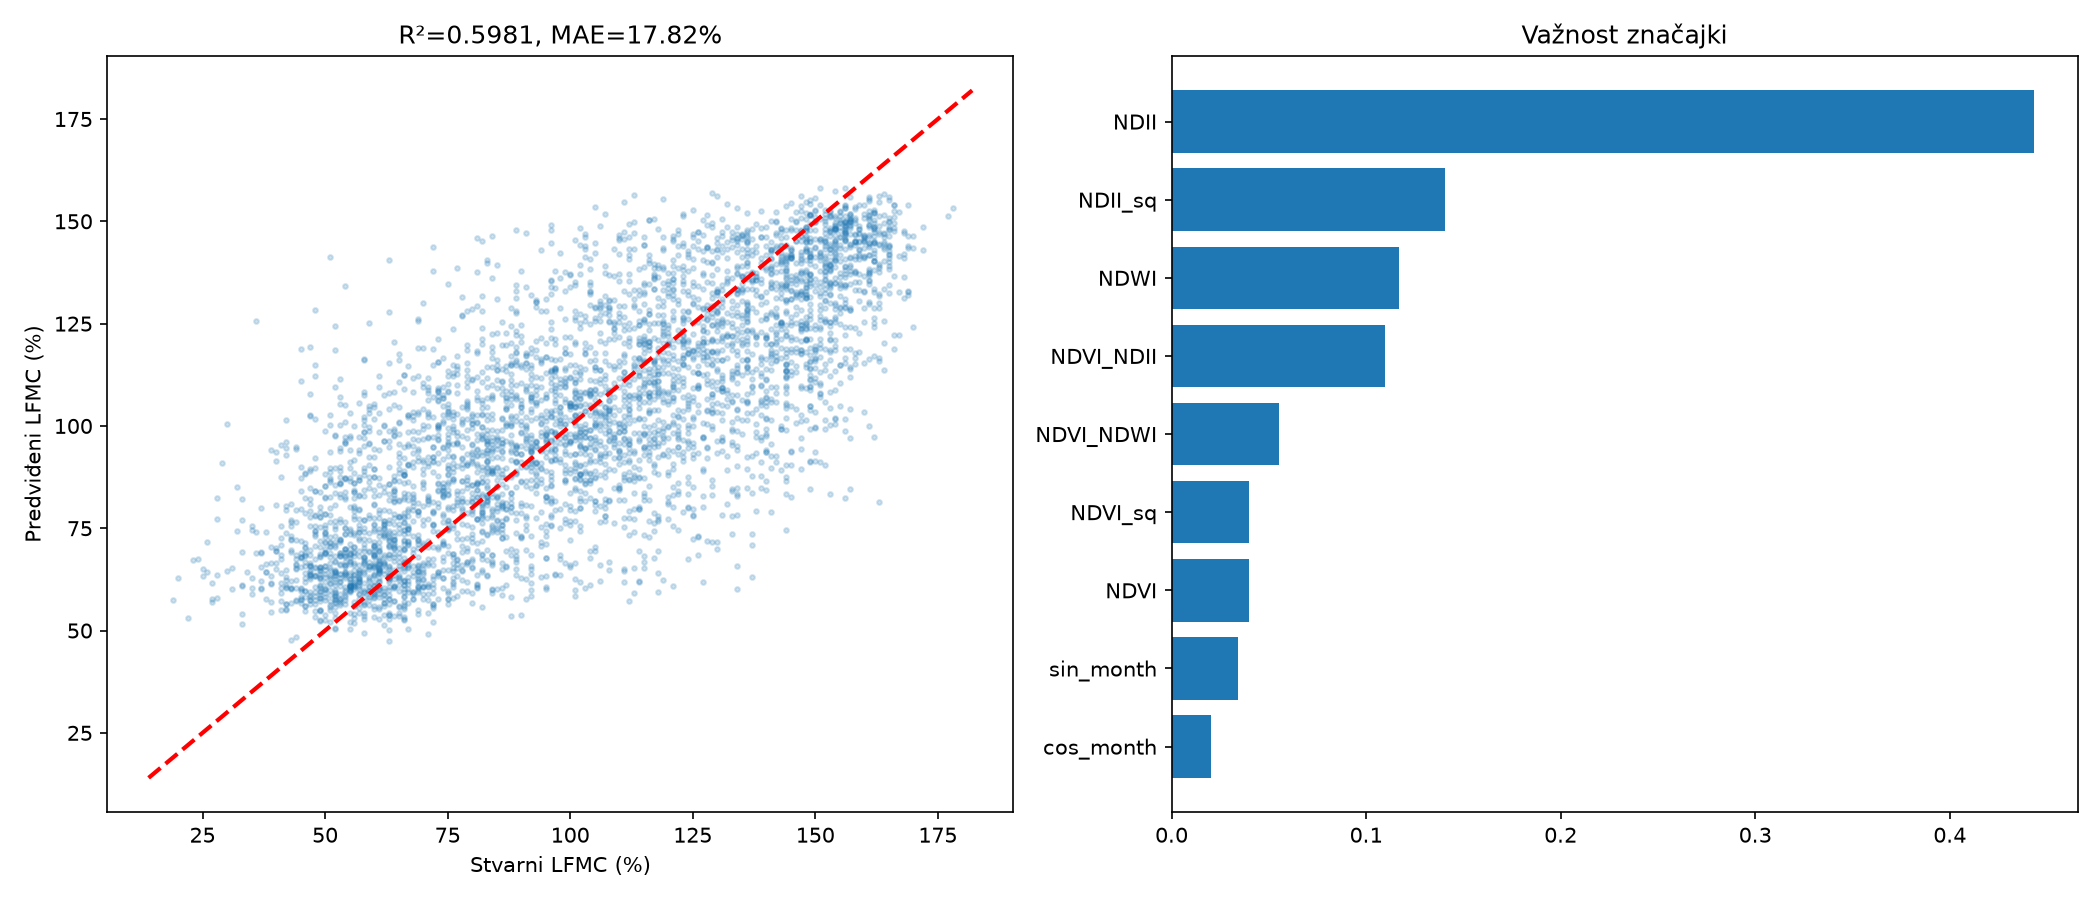
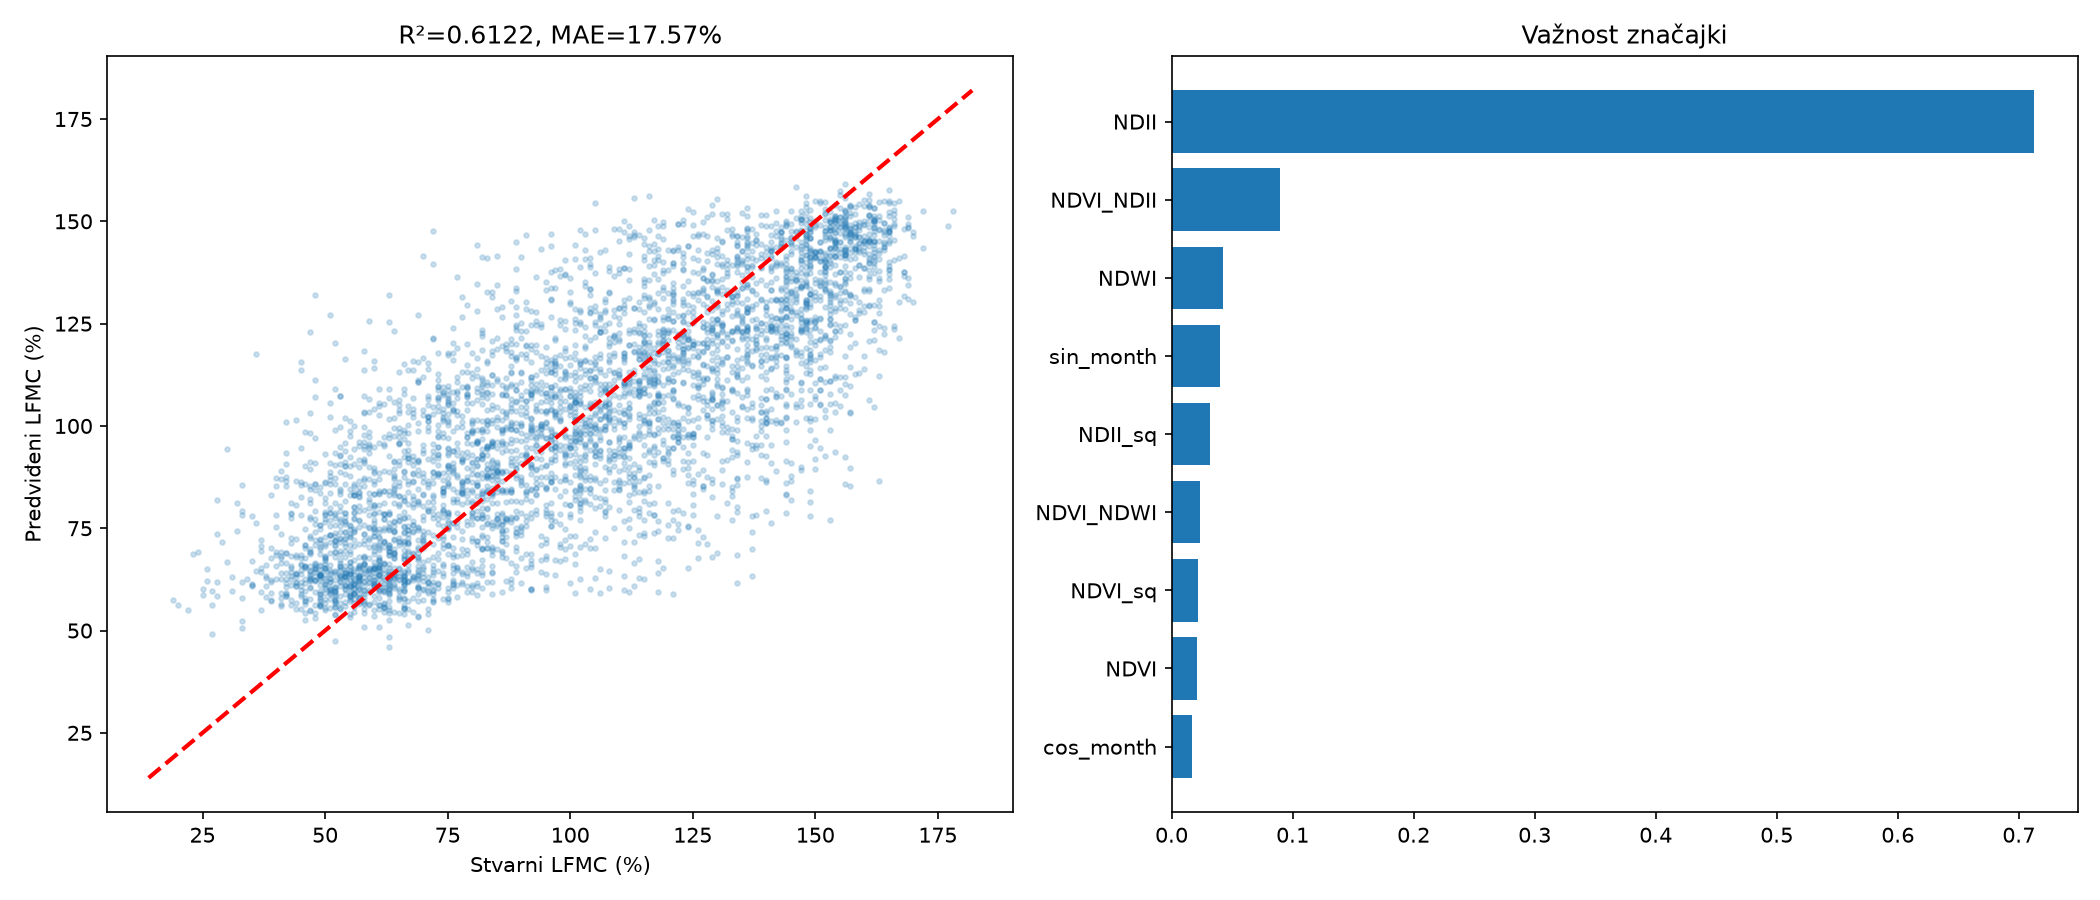
Promjena modela na Gradient BOOsting

diff --git a/usporedba_modela.py b/usporedba_modela.py
@@ -1,0 +1,125 @@
+import pandas as pd
+import numpy as np
+import glob
+import os
+from sklearn.ensemble import RandomForestRegressor, GradientBoostingRegressor
+from sklearn.linear_model import LinearRegression
+from sklearn.tree import DecisionTreeRegressor
+from sklearn.model_selection import train_test_split
+from sklearn.metrics import r2_score, mean_absolute_error
+import matplotlib.pyplot as plt
+
+#ucita podatke
+s2_folder = r"C:\Users\Petra\Desktop\zavrsni-rad\s2_pixels\zavrsni-rad-s2"
+csv_files = glob.glob(os.path.join(s2_folder, "*.csv"))
+dfs = []
+for f in csv_files:
+    try:
+        df = pd.read_csv(f)
+        if len(df) > 0:
+            dfs.append(df)
+    except:
+        pass
+s2_df = pd.concat(dfs, ignore_index=True)
+
+lfmc_df = pd.read_csv(r"C:\Users\Petra\Desktop\zavrsni-rad\lfmc_pixels.csv")
+
+#pripremi dataset
+unique_points = lfmc_df[['lon', 'lat']].drop_duplicates().reset_index(drop=True)
+unique_points['point_id'] = unique_points.index
+lfmc_df = lfmc_df.merge(unique_points, on=['lon', 'lat'], how='left')
+
+merged = lfmc_df.merge(
+    s2_df[['point_id', 'date', 'NDVI', 'NDWI', 'NDII']],
+    on=['point_id', 'date'], how='inner'
+)
+merged = merged[(merged['LFMC'] >= 10) & (merged['LFMC'] <= 300)]
+merged = merged.dropna(subset=['NDVI', 'NDWI', 'NDII', 'LFMC'])
+merged = merged[(merged['NDVI'] != 0) | (merged['NDWI'] != 0)]
+merged['month'] = pd.to_datetime(merged['date']).dt.month
+
+#originalni indeksi
+X_orig = merged[['NDVI', 'NDWI', 'NDII']].values
+
+#transformirani indeksi
+merged['NDVI_sq'] = merged['NDVI'] ** 2
+merged['NDII_sq'] = merged['NDII'] ** 2
+merged['NDVI_NDII'] = merged['NDVI'] * merged['NDII']
+merged['NDVI_NDWI'] = merged['NDVI'] * merged['NDWI']
+merged['sin_month'] = np.sin(2 * np.pi * merged['month'] / 12)
+merged['cos_month'] = np.cos(2 * np.pi * merged['month'] / 12)
+X_trans = merged[['NDVI', 'NDWI', 'NDII', 'NDVI_sq', 'NDII_sq',
+                   'NDVI_NDII', 'NDVI_NDWI', 'sin_month', 'cos_month']].values
+
+y = merged['LFMC'].values
+
+#train/test split
+X_orig_train, X_orig_test, y_train, y_test = train_test_split(X_orig, y, test_size=0.2, random_state=42)
+X_trans_train, X_trans_test, _, _ = train_test_split(X_trans, y, test_size=0.2, random_state=42)
+
+#modeli
+models = {
+    'Linear Regression': LinearRegression(),
+    'Decision Tree': DecisionTreeRegressor(max_depth=10, random_state=42),
+    'Random Forest': RandomForestRegressor(n_estimators=200, max_depth=20, random_state=42, n_jobs=-1),
+    'Gradient Boosting': GradientBoostingRegressor(n_estimators=200, max_depth=6, random_state=42)
+}
+
+#usporedba
+print(f"{'Model':<25} {'Originalni R² train':>20} {'Originalni R² test':>20} {'Transformirani R² train':>25} {'Transformirani R² test':>25}")
+print("-" * 115)
+
+results = []
+for name, model in models.items():
+    #originalni indeksi
+    model.fit(X_orig_train, y_train)
+    r2_orig_train = r2_score(y_train, model.predict(X_orig_train))
+    r2_orig_test = r2_score(y_test, model.predict(X_orig_test))
+    mae_orig_test = mean_absolute_error(y_test, model.predict(X_orig_test))
+
+    #transformirani indeksi
+    model.fit(X_trans_train, y_train)
+    r2_trans_train = r2_score(y_train, model.predict(X_trans_train))
+    r2_trans_test = r2_score(y_test, model.predict(X_trans_test))
+    mae_trans_test = mean_absolute_error(y_test, model.predict(X_trans_test))
+
+    print(f"{name:<25} {r2_orig_train:>20.4f} {r2_orig_test:>20.4f} {r2_trans_train:>25.4f} {r2_trans_test:>25.4f}")
+    
+    results.append({
+        'Model': name,
+        'R² train (orig)': r2_orig_train,
+        'R² test (orig)': r2_orig_test,
+        'MAE test (orig)': mae_orig_test,
+        'R² train (trans)': r2_trans_train,
+        'R² test (trans)': r2_trans_test,
+        'MAE test (trans)': mae_trans_test
+    })
+
+#spremi rezultate
+results_df = pd.DataFrame(results)
+results_df.to_csv(r"C:\Users\Petra\Desktop\zavrsni-rad\usporedba_modela.csv", index=False)
+print('\nRezultati spremljeni u usporedba_modela.csv!')
+
+#graf
+fig, ax = plt.subplots(figsize=(12, 6))
+x = np.arange(len(models))
+width = 0.2
+
+ax.bar(x - 1.5*width, results_df['R² test (orig)'], width, label='Originalni - test', color='steelblue')
+ax.bar(x - 0.5*width, results_df['R² train (orig)'], width, label='Originalni - train', color='lightsteelblue')
+ax.bar(x + 0.5*width, results_df['R² test (trans)'], width, label='Transformirani - test', color='darkorange')
+ax.bar(x + 1.5*width, results_df['R² train (trans)'], width, label='Transformirani - train', color='moccasin')
+
+ax.set_xlabel('Model')
+ax.set_ylabel('R²')
+ax.set_title('Usporedba modela - originalni vs transformirani indeksi')
+ax.set_xticks(x)
+ax.set_xticklabels(results_df['Model'])
+ax.legend()
+ax.set_ylim(0, 1)
+ax.grid(True, alpha=0.3)
+
+plt.tight_layout()
+plt.savefig(r"C:\Users\Petra\Desktop\zavrsni-rad\usporedba_modela.png", dpi=150)
+plt.show()
+print('Graf spremljen!')

diff --git a/merge_and_train.py b/merge_and_train.py
@@ -2,7 +2,7 @@ import pandas as pd
 import numpy as np
 import glob
 import os
-from sklearn.ensemble import RandomForestRegressor
+from sklearn.ensemble import GradientBoostingRegressor
 from sklearn.model_selection import train_test_split
 from sklearn.metrics import mean_absolute_error, r2_score
 import matplotlib.pyplot as plt
@@ -68,13 +68,11 @@ print(f'Train: {len(X_train)}, Test: {len(X_test)}')
 
 # Treniranje modela
 print('Treniranje modela...')
-model = RandomForestRegressor(
+model = GradientBoostingRegressor(
     n_estimators=300,
-    max_depth=20,
-    min_samples_leaf=3,
-    max_features=0.7,
-    random_state=42,
-    n_jobs=-1
+    max_depth=6,
+    learning_rate=0.05,
+    random_state=42
 )
 model.fit(X_train, y_train)
 
